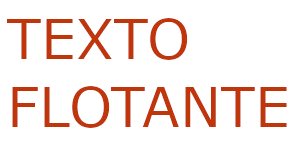
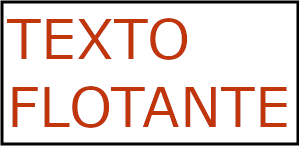
layout using flex, with debugging border colors

Changed region(s): [[0.0, 0.0, 1.0, 1.0]]

diff --git a/src/app/app.component.css b/src/app/app.component.css
@@ -1,3 +1,44 @@
 * {
     font-family: Arial, Helvetica, sans-serif;
 }
+
+:host {
+  display: flex;
+  flex-direction: column;
+  position: absolute;
+  top: 0;
+  bottom: 0;
+  left: 0;
+  right: 0; 
+  border: solid 3px yellow; /*debug */
+}
+
+.divMain {
+    flex: 1;
+    display: flex;
+    flex-direction: column;
+    height: 100%;
+    border: 1px solid; /*debug */
+}
+
+.divToolBar {
+    border: 3px solid red; /*debug */
+}
+
+.divLayerPresenter {
+    flex: 1;
+    position: relative;
+    display: flex;
+    flex-direction: row;
+    border: 3px solid darkgrey; /*debug */
+}
+
+.divAddEditLayer {
+    position: absolute ;
+    left: 50px;
+    top: 50px;
+    z-index: 9999;
+    background-color: white;
+    border: solid 2px darkgray;
+    border-radius: 5px;
+}

diff --git a/src/app/shared/components/layer-presenter/layer-presenter.component.ts b/src/app/shared/components/layer-presenter/layer-presenter.component.ts
@@ -3,7 +3,7 @@ import { ImageLayer } from '../../models/image-layer';
 import { LayerService } from '../../services/layer.service';
 
 @Component({
-  selector: 'app-image-layers',
+  selector: 'app-layer-presenter',
   templateUrl: './layer-presenter.component.html',
   styleUrls: ['./layer-presenter.component.css']
 })
@@ -17,9 +17,9 @@ export class LayerPresenter implements OnInit {
     imgLayer.img_src = "assets/back_01.jpg" ;
     imgLayer.scale = 1 ;
 
-    this.layerService.addImageLayer(imgLayer) ;
+    //TODO sthis.layerService.addImageLayer(imgLayer) ;
   }
-  
+
   getLayers() : ImageLayer[] {
     return this.layerService.getLayers() ;
   }

diff --git a/src/app/app.component.html b/src/app/app.component.html
@@ -1,8 +1,10 @@
-<app-tool-bar (showAddEditLayerModalEvent)="showAddEditLayerModal()"></app-tool-bar>
-<app-layer-list></app-layer-list>
+<div class="divMain">
+    <app-tool-bar (showAddEditLayerModalEvent)="showAddEditLayerModal()" class="divToolBar"></app-tool-bar>
+    <app-layer-presenter class="divLayerPresenter"></app-layer-presenter >
+</div>
 <app-add-edit-layer *ngIf="isAddEditLayerVisisble" 
     (hideAddEditLayerModalEvent)="hideAddEditLayerModal()"
     (addEditLayerEvent)="handleAddEditLayerEvent($event)"
-    >
+    class="divAddEditLayer">
 </app-add-edit-layer>
-<app-image-layers></app-image-layers>
+

diff --git a/src/app/shared/components/layer-presenter/layer-presenter.component.css b/src/app/shared/components/layer-presenter/layer-presenter.component.css
@@ -1,8 +1,13 @@
-.divLayerPresenter {
-    position: absolute ;
-    border: solid 1px darkgray;
-    width: 100%;
-    height: 100%;
+.divLayers {
+  width: 95%;
+  flex-basis: 95%;
+  border: 3px solid green; /*debug */
+} 
+
+
+.divLayerList {
+  flex :1 ;
+  border: 3px solid blue; /*debug */
 }
 
 .divFloatLayer {

diff --git a/src/app/shared/components/layer-presenter/layer-presenter.component.html b/src/app/shared/components/layer-presenter/layer-presenter.component.html
@@ -1,4 +1,4 @@
-<div class="divLayerPresenter">
+<div class="divLayers">
     <div *ngFor="let il of getLayers()">
         <img class="divFloatLayer" 
             [src]="il.img_src" 
@@ -9,3 +9,5 @@
         />
     </div>
 </div>
+<app-layer-list class="divLayerList"></app-layer-list>
+

diff --git a/layoutTesting.html b/layoutTesting.html
@@ -1,0 +1,14 @@
+<html>
+	<head>
+		<title>Layout Testing</title>
+		<link rel="stylesheet" href="layoutTesting.css">
+	</head>
+	<div class="divMain">
+		<div class="toolBar">
+			toolbar
+		</div>
+		<div class="divLayerPresenter">
+			LayerPresenter
+		</div>
+	</div>
+</html>

diff --git a/src/app/shared/components/add-edit-layer/add-edit-layer.component.css b/src/app/shared/components/add-edit-layer/add-edit-layer.component.css
@@ -1,10 +1,4 @@
-.divAddEditLayer {
-    position: absolute ;
-    z-index: 9999;
-    background-color: white;
-    border: solid 2px darkgray;
-    border-radius: 5px;
-}
+
 
 .inputNumeric {
     width: 50px;

diff --git a/src/app/shared/components/tool-bar/tool-bar.component.html b/src/app/shared/components/tool-bar/tool-bar.component.html
@@ -1,1 +1,3 @@
-<input type="button" value="+" (click)="onAddEditLayerClick()">
+<div class="divToolBar">
+    <input type="button" value="+" (click)="onAddEditLayerClick()">
+</div>

diff --git a/layoutTesting.css b/layoutTesting.css
@@ -1,0 +1,10 @@
+.divMain {
+	display: flex ;
+	flex-direction: column;
+	border: solid 1px black ;
+	height: 100%; 
+}
+
+.divLayerPresenter {
+	flex:1
+}
